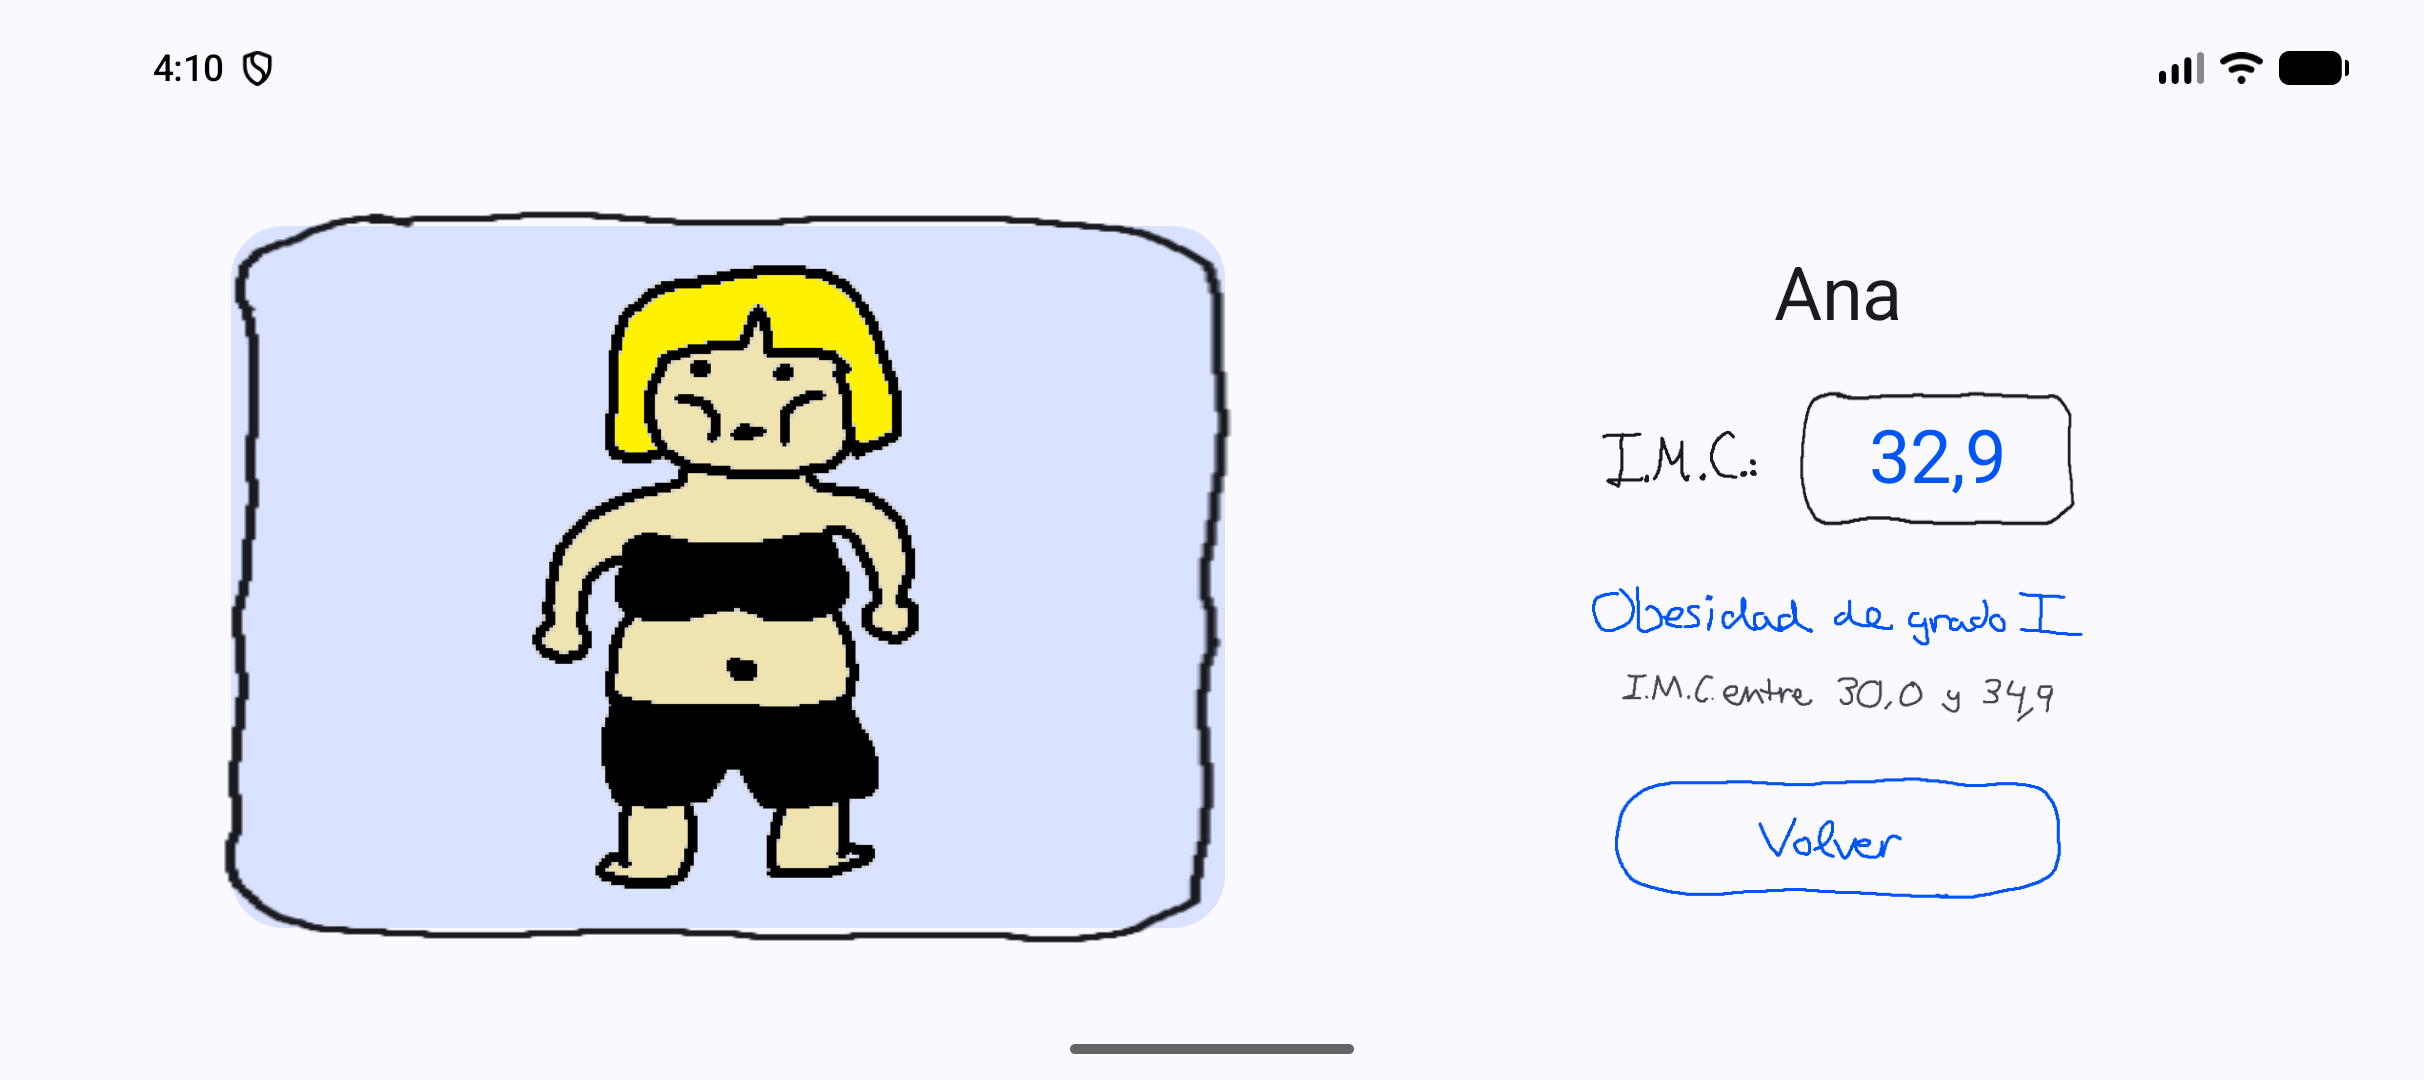
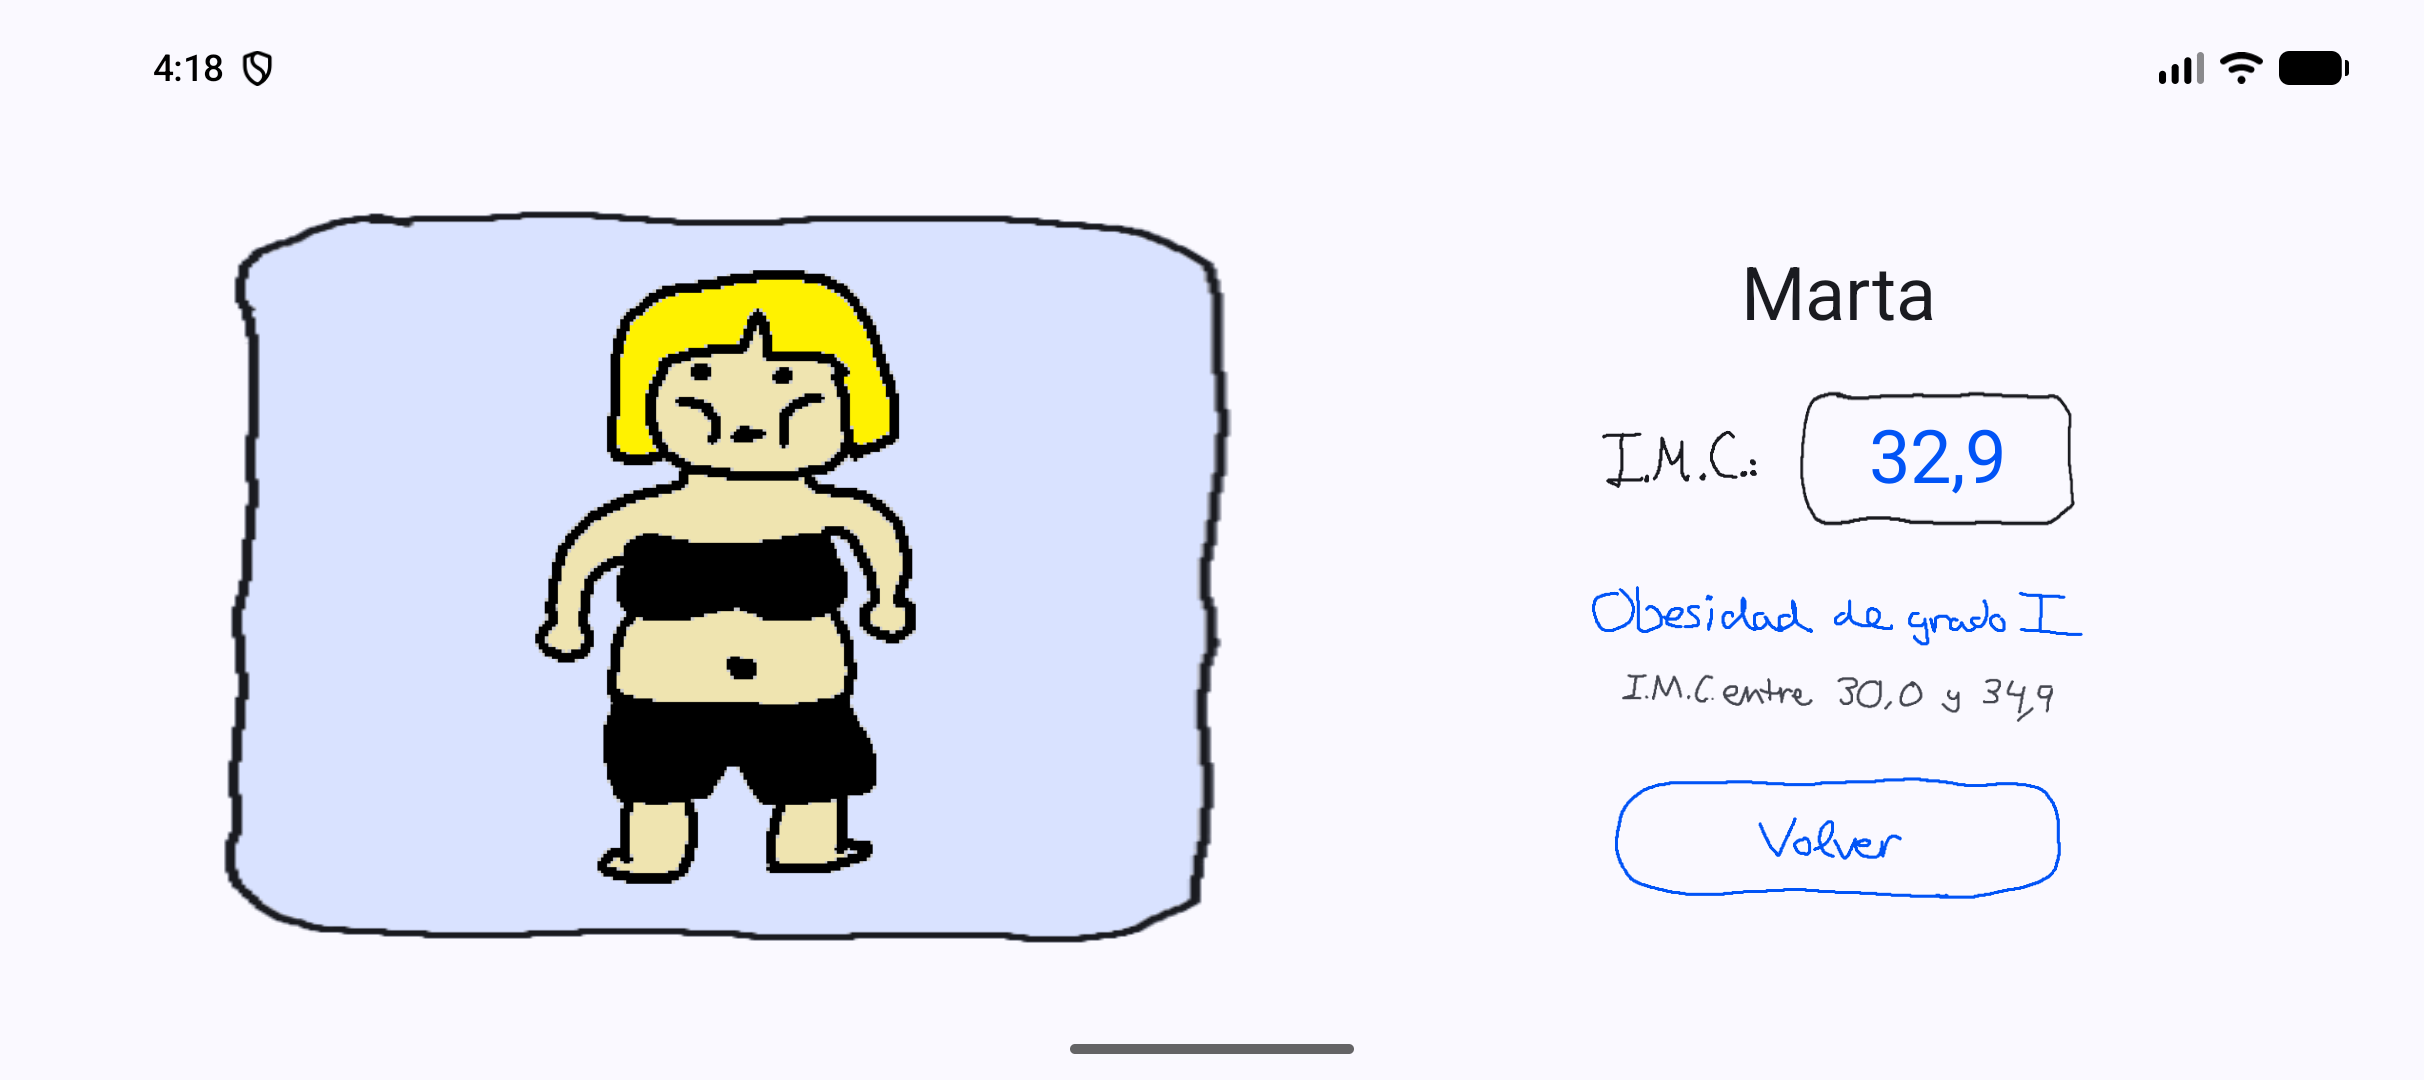
Fondo del marco con la forma del dibujo para que no sobresalga

diff --git a/app/src/main/java/com/gonzalo/calculadora_imc/ui/ResultadoScreen.kt b/app/src/main/java/com/gonzalo/calculadora_imc/ui/ResultadoScreen.kt
@@ -2,7 +2,6 @@ package com.gonzalo.calculadora_imc.ui
 
 import android.content.res.Configuration
 import androidx.compose.foundation.Image
-import androidx.compose.foundation.background
 import androidx.compose.foundation.clickable
 import androidx.compose.foundation.layout.Arrangement
 import androidx.compose.foundation.layout.Box
@@ -164,21 +163,23 @@ private fun Cabecera(resultado: ResultadoImc) {
 @Composable
 private fun Ilustracion(resultado: ResultadoImc, modifier: Modifier) {
     // En un Box lo que va DESPUÉS se pinta ENCIMA: primero el fondo, luego el muñeco y al final el marco.
+    // El fondo (res_marco_fondo) es el interior del marco dibujado, relleno: tiene su misma forma
+    // y se estira igual, así que nunca sobresale.
     Box(modifier = modifier, contentAlignment = Alignment.Center) {
-        Box(
+        Image(
+            painter = painterResource(R.drawable.res_marco_fondo),
+            contentDescription = null,
+            colorFilter = ColorFilter.tint(MaterialTheme.colorScheme.primaryContainer),
+            contentScale = ContentScale.FillBounds,
+            modifier = Modifier.matchParentSize(),
+        )
+        Image(
+            painter = painterResource(resultado.ilustracion),
+            contentDescription = "Ilustración: ${resultado.sexo.texto.lowercase()}, ${resultado.rango.nombre.lowercase()}",
             modifier = Modifier
                 .matchParentSize()
-                .padding(10.dp)
-                .background(MaterialTheme.colorScheme.primaryContainer, RoundedCornerShape(20.dp))
-                .padding(12.dp),
-            contentAlignment = Alignment.Center,
-        ) {
-            Image(
-                painter = painterResource(resultado.ilustracion),
-                contentDescription = "Ilustración: ${resultado.sexo.texto.lowercase()}, ${resultado.rango.nombre.lowercase()}",
-                modifier = Modifier.fillMaxSize(),
-            )
-        }
+                .padding(24.dp),
+        )
         Image(
             painter = painterResource(R.drawable.res_marco),
             contentDescription = null,

diff --git a/README.md b/README.md
@@ -107,7 +107,7 @@ Cómo se usan:
 - Son PNG con **tinta negra sobre fondo transparente**. En la app se tiñen con `ColorFilter.tint`: en el formulario, blancos sobre el fondo oscuro y **rojos** cuando un valor está mal; en el resultado, del color del tema, así que cambian solos entre el modo claro y el oscuro.
 - **Solo lo que cambia va con letra normal**: lo que escribe el usuario, su nombre y el número del IMC. Todo lo demás es dibujo.
 - Los campos son `BasicTextField`, un campo de texto sin bordes. La caja dibujada se pone detrás, estirada a su tamaño (`ContentScale.FillBounds`). **Lo que escribe el usuario va con letra normal**, dentro de la caja.
-- La caja del IMC y el marco del muñeco se estiran al tamaño de lo que tienen dentro (`matchParentSize` + `FillBounds`). En el marco, el dibujo va **encima** del fondo de color: en un `Box`, lo último que se escribe es lo que se pinta delante.
+- La caja del IMC y el marco del muñeco se estiran al tamaño de lo que tienen dentro (`matchParentSize` + `FillBounds`). El fondo de color del marco es `res_marco_fondo`: el interior del marco dibujado, relleno. Tiene su misma forma y se estira igual, así que nunca sobresale. En un `Box`, lo último que se escribe es lo que se pinta delante: primero el fondo, luego el muñeco y encima el marco.
 - Cuando el botón de calcular está desactivado se ve más clarito (`alpha`) y no responde.
 - Cada dibujo tiene su `contentDescription`, así que los lectores de pantalla siguen leyendo "Nombre", "Calcular IMC", etc.
 - Están en `drawable-nodpi` para que Android no los reescale según la pantalla: el tamaño lo decide el código.
